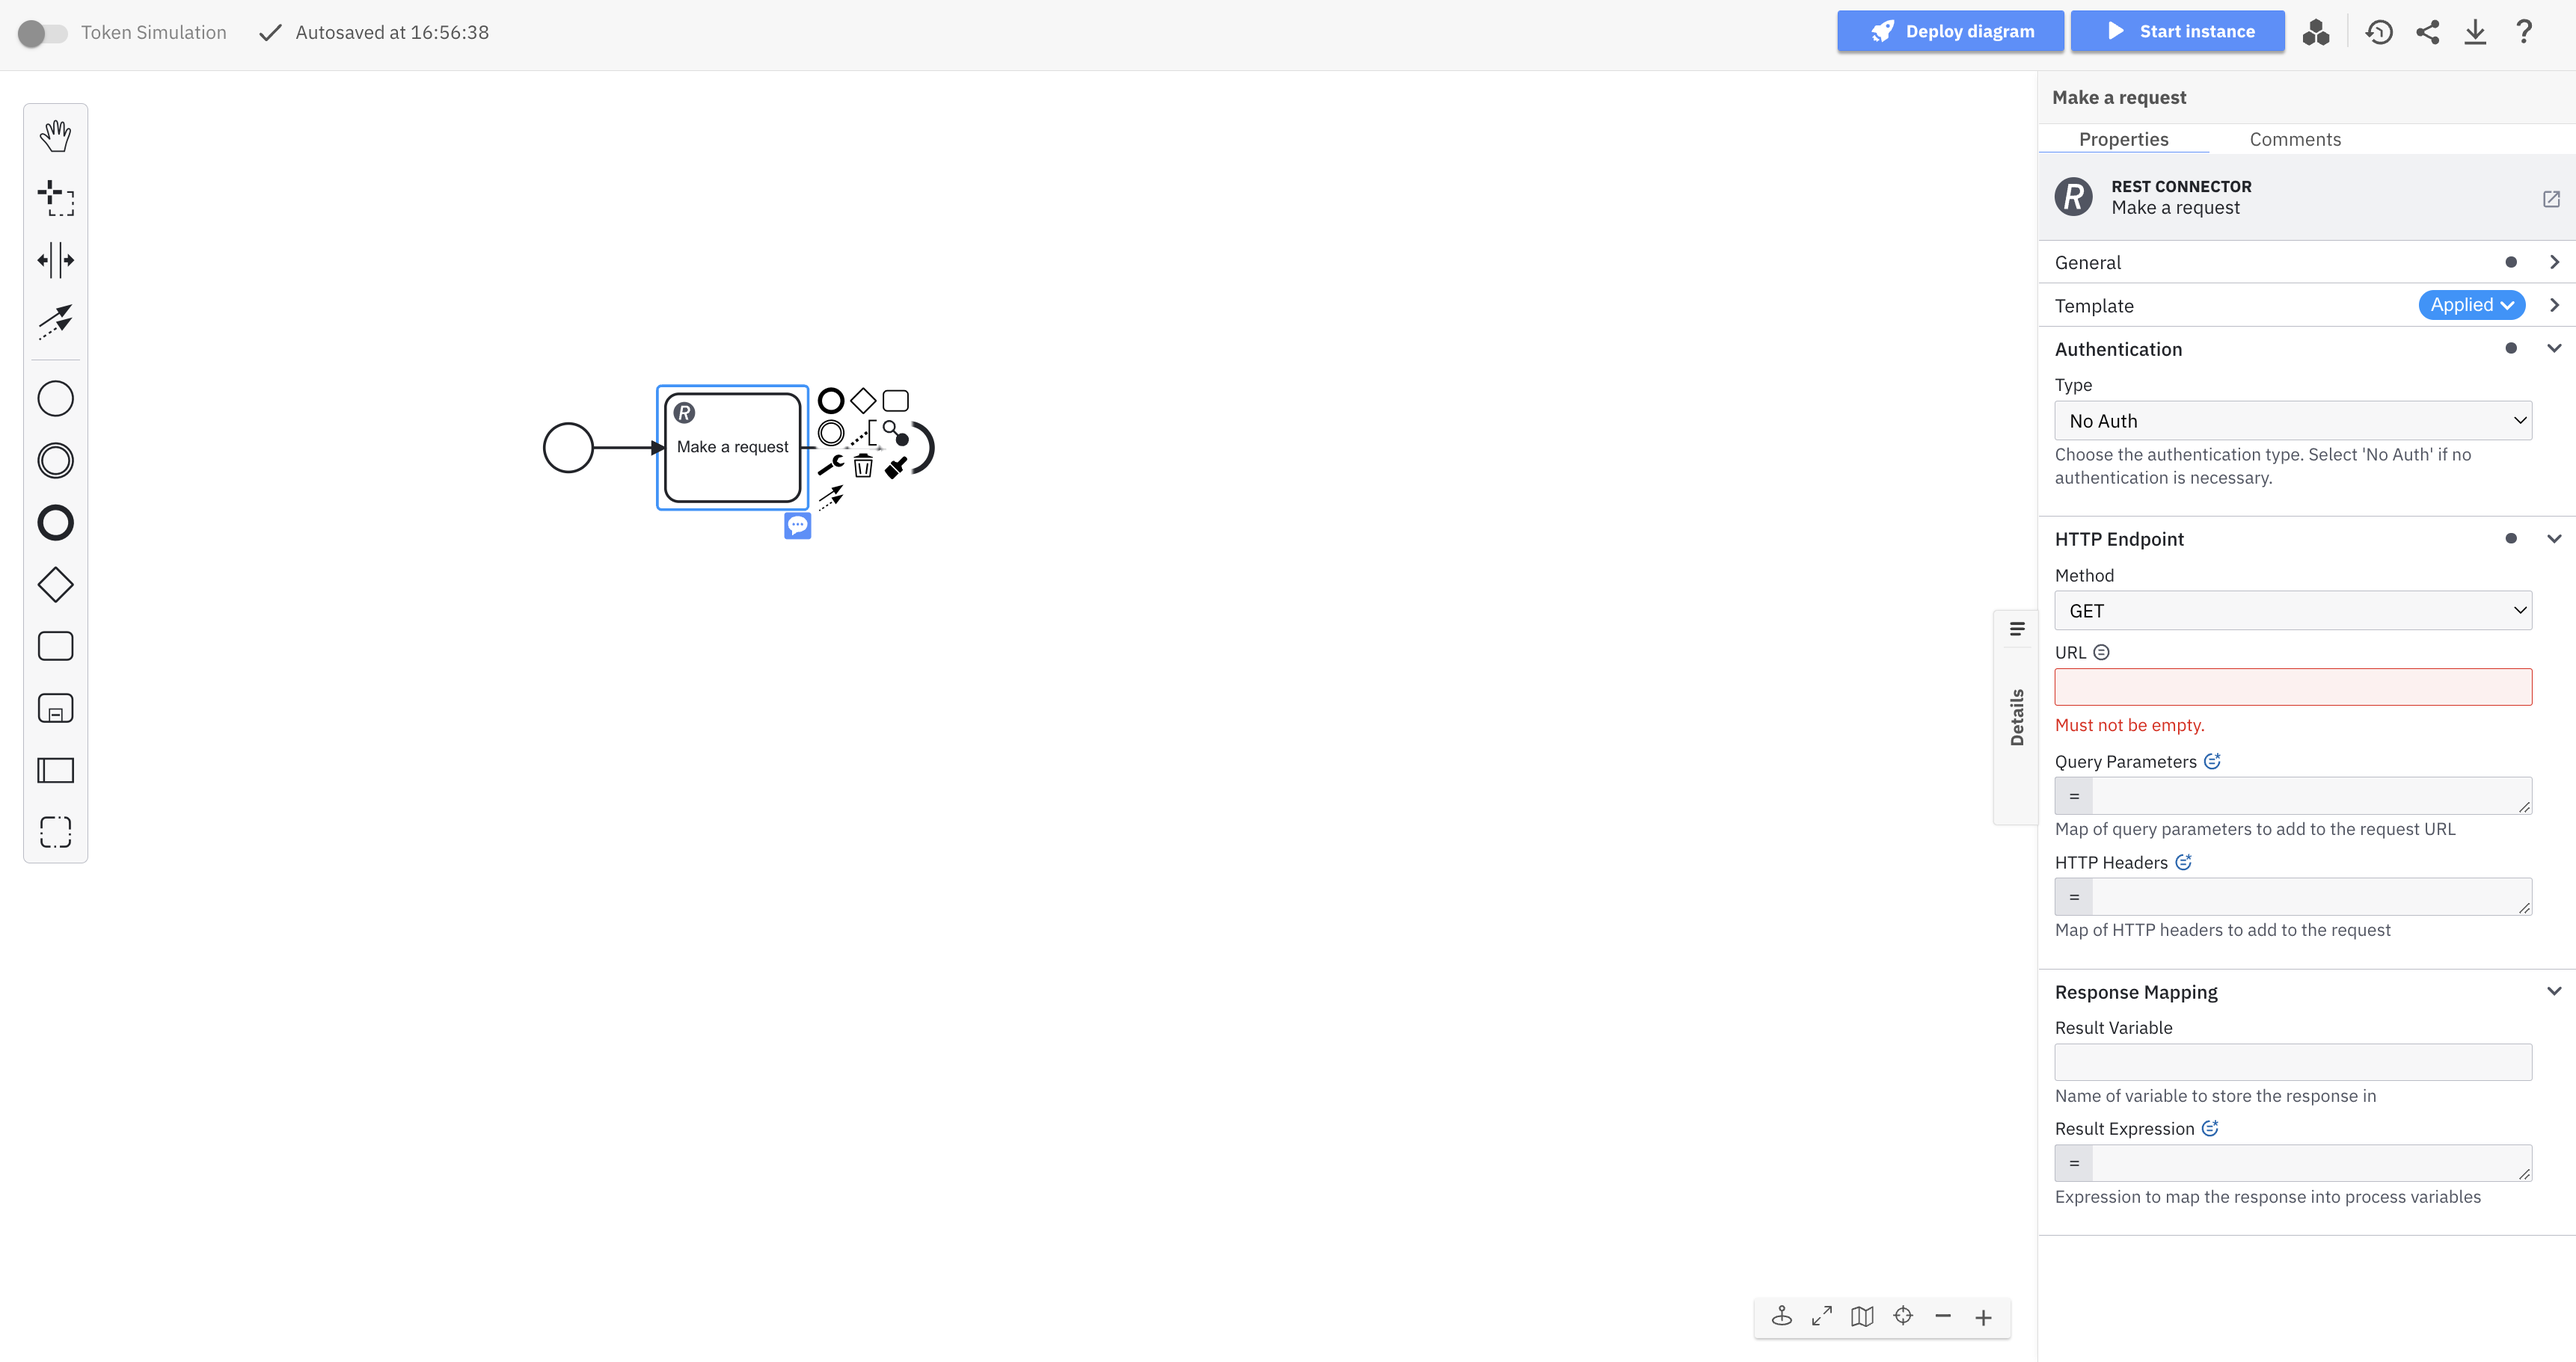
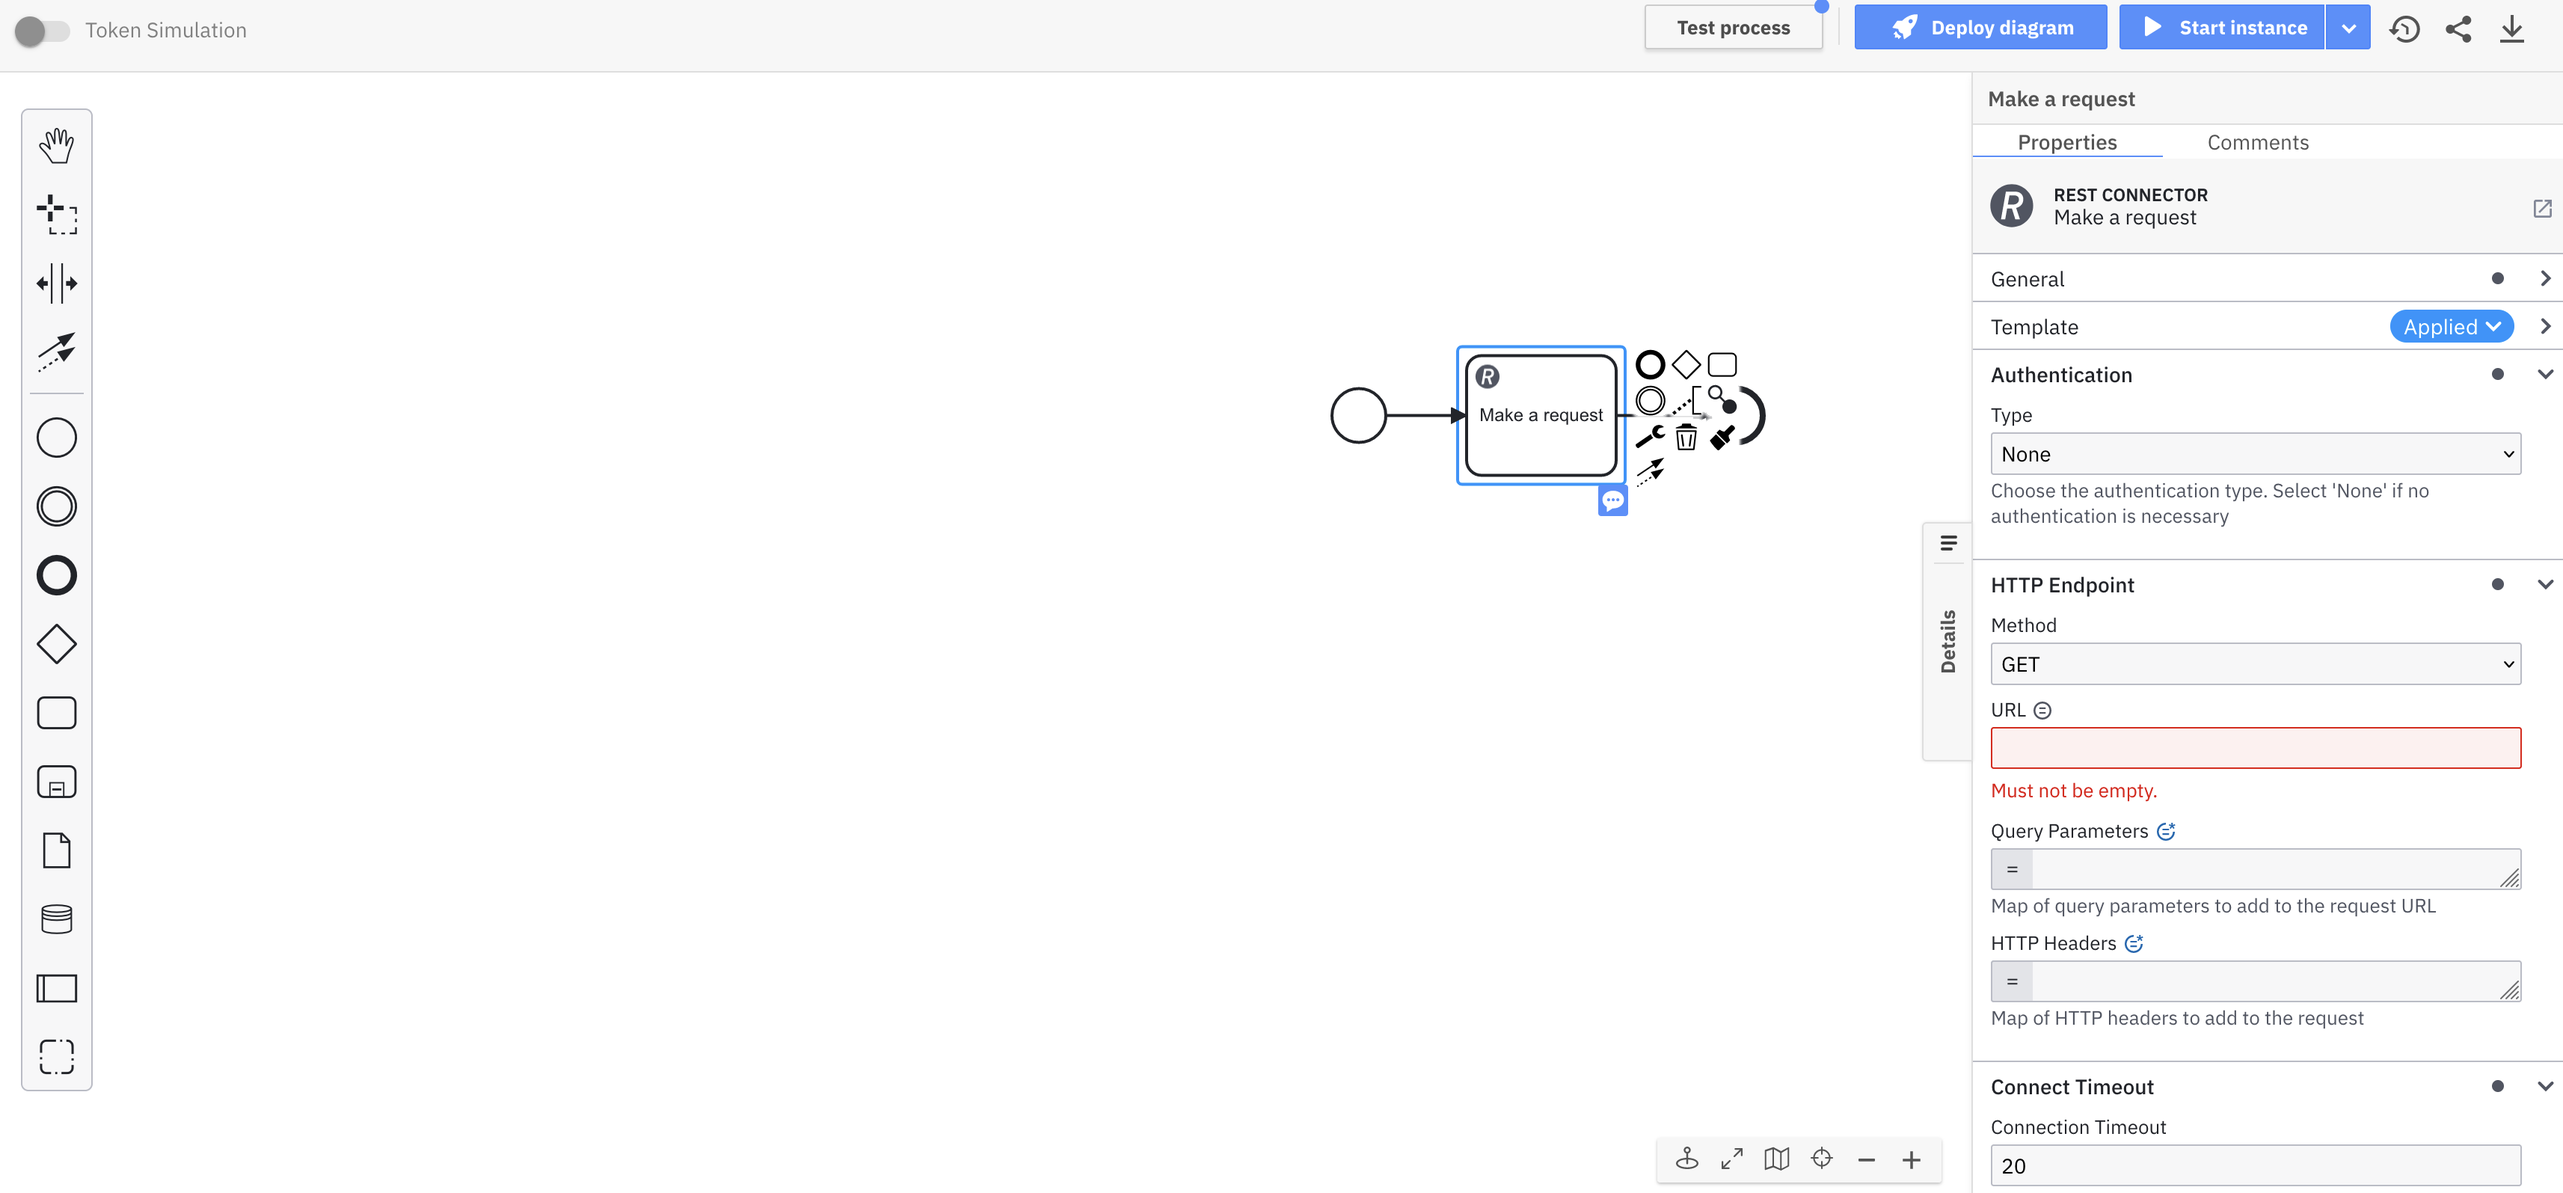
feat: rest connector - simplify authentication types

diff --git a/docs/components/connectors/out-of-the-box-connectors/rest.md b/docs/components/connectors/out-of-the-box-connectors/rest.md
@@ -24,31 +24,31 @@ All the mandatory and non-mandatory fields will be covered in the upcoming secti
 
 You can choose among the available REST Connectors according to your authentication requirements.
 
-### REST Connector (No Auth)
+### REST Connector (None)
 
-Click **No Auth** in the **Authentication** section.
+Click **None** in the **Authentication** section.
 No extra authentication configuration is required; you can jump to the [next section](#request).
 
-### REST Connector (Basic Auth)
+### REST Connector (Basic)
 
 ##### Create a new Connector secret
 
 We advise you to keep your **Password** safe and avoid exposing it in the BPMN `xml` file by creating a secret:
 
 1. Follow our [guide for creating secrets](../../console/manage-clusters/manage-secrets.md).
-2. Name your secret (i.e `REST_BASIC_AUTH_SECRET`) so you can reference it later in the Connector.
+2. Name your secret (i.e `REST_BASIC_SECRET`) so you can reference it later in the Connector.
 
 ### Configure Basic Authentication
 
 Select the **REST Connector** and fill out the following properties under the **Authentication** section:
 
-1. Click **Basic Auth** in the **Authentication** section.
+1. Click **Basic** in the **Authentication** section.
 2. Set **Username** (i.e. `secrets.YOUR_USERNAME`).
-3. Set **Password** to the secret you created (i.e. `secrets.REST_BASIC_AUTH_SECRET`).
+3. Set **Password** to the secret you created (i.e. `secrets.REST_BASIC_SECRET`).
 
-![rest Connector basic auth](../img/connectors-rest-basic-auth.png)
+![rest Connector basic](../img/connectors-rest-basic.png)
 
-### REST Connector (Bearer Token Auth)
+### REST Connector (Bearer Token)
 
 #### Create a new Connector secret
 
@@ -61,10 +61,10 @@ We advise you to keep your **Bearer Token** safe and avoid exposing it in the BP
 
 Select the **REST Connector** and fill out the following properties under the **Authentication** section:
 
-1. Click **Bearer Token Auth** in the **Authentication** section.
+1. Click **Bearer Token** in the **Authentication** section.
 2. Set **Bearer** to the secret you created (i.e. `secrets.REST_BEARER_TOKEN`).
 
-![rest Connector bearer token auth](../img/connectors-rest-bearer-token-auth.png)
+![rest Connector bearer token](../img/connectors-rest-bearer-token.png)
 
 ### REST Connector (OAuth token)
 
@@ -87,7 +87,7 @@ Select the **REST Connector** and fill out the following properties under the **
 6. Set **Audience** to the secret you created (i.e. `secrets.AUDIENCE`). It is an optional field. Depending on the OAuth provider you're using, you should fill this field or not.
 7. Choose **Client Authentication** from the dropdown menu (i.e. `Send client credentials in body`).
 
-![rest Connector bearer token auth](../img/connectors-rest-oauth-token.png)
+![rest Connector oauth token](../img/connectors-rest-oauth-token.png)
 
 Find more information about the OAuth client credentials flow at the [RFC reference](https://www.rfc-editor.org/rfc/rfc6749#section-4.4).
 

diff --git a/versioned_docs/version-8.0/components/connectors/out-of-the-box-connectors/rest.md b/versioned_docs/version-8.0/components/connectors/out-of-the-box-connectors/rest.md
@@ -24,31 +24,31 @@ All the mandatory and non-mandatory fields will be covered in the upcoming secti
 
 You can choose among the available REST Connectors according to your authentication requirements.
 
-### REST Connector (No Auth)
+### REST Connector (None)
 
-Click **No Auth** in the **Authentication** section.
+Click **None** in the **Authentication** section.
 No extra authentication configuration is required; you can jump to the [next section](#request).
 
-### REST Connector (Basic Auth)
+### REST Connector (Basic)
 
 ##### Create a new Connector secret
 
 We advise you to keep your **Password** safe and avoid exposing it in the BPMN `xml` file by creating a secret:
 
 1. Follow our [guide for creating secrets](../../console/manage-clusters/manage-secrets.md).
-2. Name your secret (i.e `REST_BASIC_AUTH_SECRET`) so you can reference it later in the Connector.
+2. Name your secret (i.e `REST_BASIC_SECRET`) so you can reference it later in the Connector.
 
 ### Configure Basic Authentication
 
 Select the **REST Connector** and fill out the following properties under the **Authentication** section:
 
-1. Click **Basic Auth** in the **Authentication** section.
+1. Click **Basic** in the **Authentication** section.
 2. Set **Username** (i.e. `secrets.YOUR_USERNAME`).
-3. Set **Password** to the secret you created (i.e. `secrets.REST_BASIC_AUTH_SECRET`).
+3. Set **Password** to the secret you created (i.e. `secrets.REST_BASIC_SECRET`).
 
-![rest Connector basic auth](../img/connectors-rest-basic-auth.png)
+![rest Connector basic](../img/connectors-rest-basic.png)
 
-### REST Connector (Bearer Token Auth)
+### REST Connector (Bearer Token)
 
 #### Create a new Connector secret
 
@@ -61,10 +61,10 @@ We advise you to keep your **Bearer Token** safe and avoid exposing it in the BP
 
 Select the **REST Connector** and fill out the following properties under the **Authentication** section:
 
-1. Click **Bearer Token Auth** in the **Authentication** section.
+1. Click **Bearer Token** in the **Authentication** section.
 2. Set **Bearer** to the secret you created (i.e. `secrets.REST_BEARER_TOKEN`).
 
-![rest Connector bearer token auth](../img/connectors-rest-bearer-token-auth.png)
+![rest Connector bearer token](../img/connectors-rest-bearer-token.png)
 
 ### REST Connector (OAuth token)
 
@@ -87,7 +87,7 @@ Select the **REST Connector** and fill out the following properties under the **
 6. Set **Audience** to the secret you created (i.e. `secrets.AUDIENCE`). It is an optional field. Depending on the OAuth provider you're using, you should fill this field or not.
 7. Choose **Client Authentication** from the dropdown menu (i.e. `Send client credentials in body`).
 
-![rest Connector bearer token auth](../img/connectors-rest-oauth-token.png)
+![rest Connector oauth token](../img/connectors-rest-oauth-token.png)
 
 Find more information about the OAuth client credentials flow at the [RFC reference](https://www.rfc-editor.org/rfc/rfc6749#section-4.4).
 

diff --git a/versioned_docs/version-8.1/components/connectors/out-of-the-box-connectors/rest.md b/versioned_docs/version-8.1/components/connectors/out-of-the-box-connectors/rest.md
@@ -24,31 +24,31 @@ All the mandatory and non-mandatory fields will be covered in the upcoming secti
 
 You can choose among the available REST Connectors according to your authentication requirements.
 
-### REST Connector (No Auth)
+### REST Connector (None)
 
-Click **No Auth** in the **Authentication** section.
+Click **None** in the **Authentication** section.
 No extra authentication configuration is required; you can jump to the [next section](#request).
 
-### REST Connector (Basic Auth)
+### REST Connector (Basic)
 
 ##### Create a new Connector secret
 
 We advise you to keep your **Password** safe and avoid exposing it in the BPMN `xml` file by creating a secret:
 
 1. Follow our [guide for creating secrets](../../console/manage-clusters/manage-secrets.md).
-2. Name your secret (i.e `REST_BASIC_AUTH_SECRET`) so you can reference it later in the Connector.
+2. Name your secret (i.e `REST_BASIC_SECRET`) so you can reference it later in the Connector.
 
 ### Configure Basic Authentication
 
 Select the **REST Connector** and fill out the following properties under the **Authentication** section:
 
-1. Click **Basic Auth** in the **Authentication** section.
+1. Click **Basic** in the **Authentication** section.
 2. Set **Username** (i.e. `secrets.YOUR_USERNAME`).
-3. Set **Password** to the secret you created (i.e. `secrets.REST_BASIC_AUTH_SECRET`).
+3. Set **Password** to the secret you created (i.e. `secrets.REST_BASIC_SECRET`).
 
-![rest Connector basic auth](../img/connectors-rest-basic-auth.png)
+![rest Connector basic](../img/connectors-rest-basic.png)
 
-### REST Connector (Bearer Token Auth)
+### REST Connector (Bearer Token)
 
 #### Create a new Connector secret
 
@@ -61,10 +61,10 @@ We advise you to keep your **Bearer Token** safe and avoid exposing it in the BP
 
 Select the **REST Connector** and fill out the following properties under the **Authentication** section:
 
-1. Click **Bearer Token Auth** in the **Authentication** section.
+1. Click **Bearer Token** in the **Authentication** section.
 2. Set **Bearer** to the secret you created (i.e. `secrets.REST_BEARER_TOKEN`).
 
-![rest Connector bearer token auth](../img/connectors-rest-bearer-token-auth.png)
+![rest Connector bearer token](../img/connectors-rest-bearer-token.png)
 
 ### REST Connector (OAuth token)
 
@@ -87,7 +87,7 @@ Select the **REST Connector** and fill out the following properties under the **
 6. Set **Audience** to the secret you created (i.e. `secrets.AUDIENCE`). It is an optional field. Depending on the OAuth provider you're using, you should fill this field or not.
 7. Choose **Client Authentication** from the dropdown menu (i.e. `Send client credentials in body`).
 
-![rest Connector bearer token auth](../img/connectors-rest-oauth-token.png)
+![rest Connector oauth token](../img/connectors-rest-oauth-token.png)
 
 Find more information about the OAuth client credentials flow at the [RFC reference](https://www.rfc-editor.org/rfc/rfc6749#section-4.4).
 
